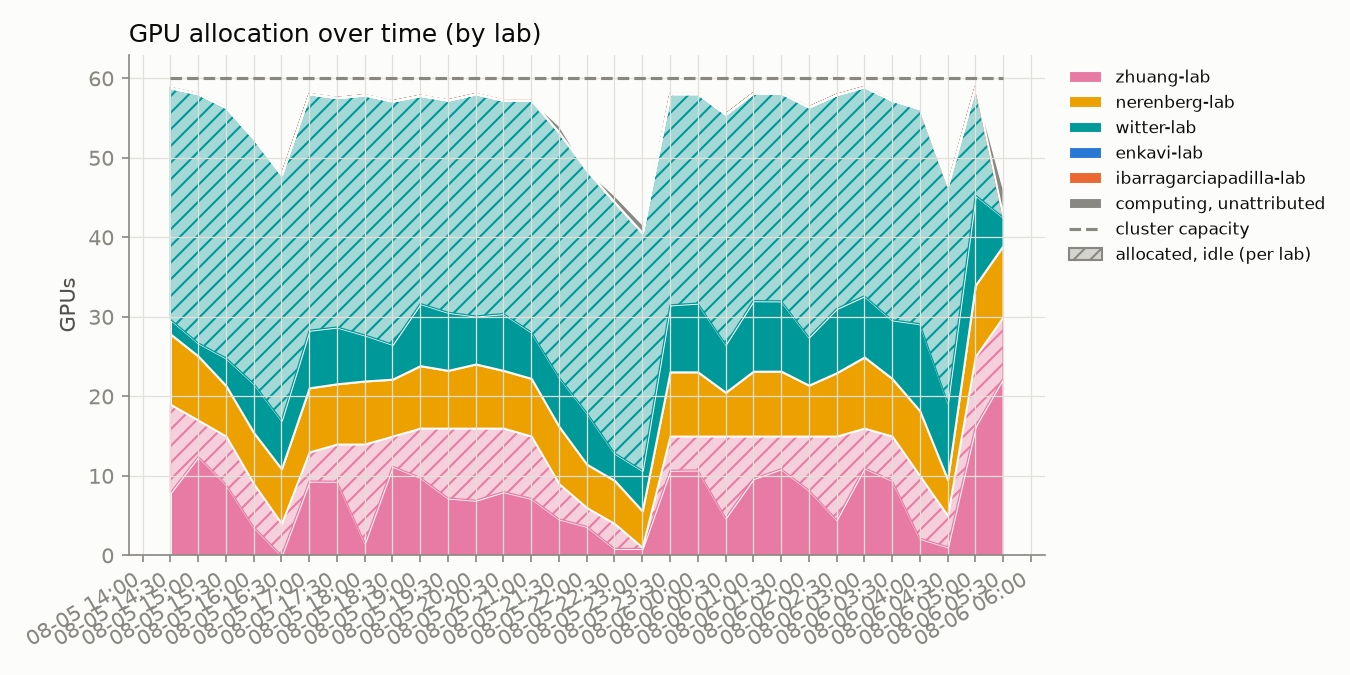
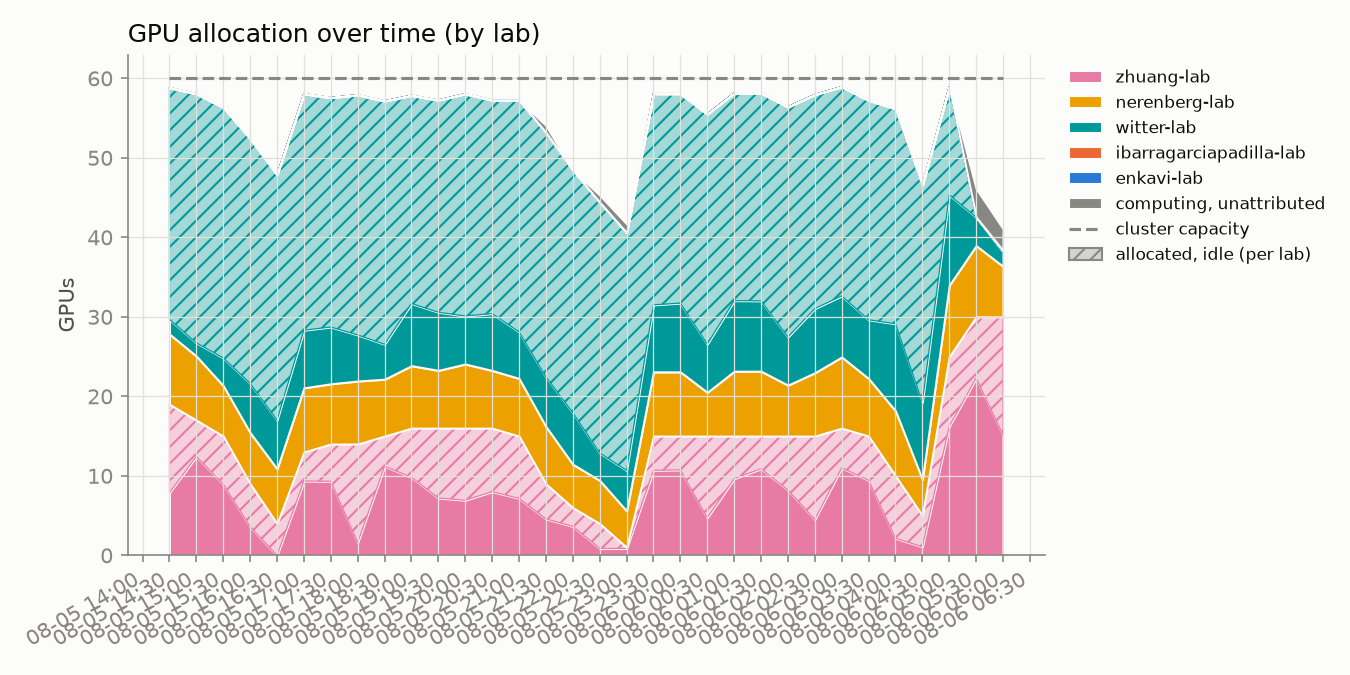
update 2026-08-06T06:00:01-07:00

diff --git a/README.md b/README.md
@@ -2,8 +2,8 @@
 
 Automated GPU/CPU/queue utilization tracker for `hopper.cluster`, updated every 30 minutes by cron. Usernames are anonymized to a stable per-account pseudonym; lab names are real.
 
-Last updated: 2026-08-06T05:30:26-07:00
-Samples: 31 queue snapshots, 31 GPU snapshots
+Last updated: 2026-08-06T06:00:25-07:00
+Samples: 32 queue snapshots, 32 GPU snapshots
 
 ## Resources
 
@@ -16,22 +16,22 @@ Samples: 31 queue snapshots, 31 GPU snapshots
 
 ## Headline
 
-- **82.6%** of the cluster's 60 GPUs allocated, averaged across all samples
-- **37.1%** average `nvidia-smi` utilization *when* a GPU is allocated to a job
-- **80.8%** average cgroup CPU utilization *when* a CPU is allocated to a job
+- **81.8%** of the cluster's 60 GPUs allocated, averaged across all samples
+- **37.5%** average `nvidia-smi` utilization *when* a GPU is allocated to a job
+- **81.0%** average cgroup CPU utilization *when* a CPU is allocated to a job
 
 ## Per lab / per user
 
 <table>
 <tr><th>Lab</th><th>User</th><th align='right'>GPU-hours allocated</th><th align='right'>CPU-hours allocated</th><th align='right'>GPU utilization</th></tr>
 <tr style='background-color:#d8efef'><td>witter-lab</td><td>user-d58f5a15</td><td align='right'>467.5</td><td align='right'>3740.0</td><td align='right'>9%</td></tr>
-<tr style='background-color:#fbebf1'><td>zhuang-lab</td><td>user-0db9ced0</td><td align='right'>212.5</td><td align='right'>212.5</td><td align='right'>48%</td></tr>
-<tr style='background-color:#d8efef'><td>witter-lab</td><td>user-554c620c</td><td align='right'>57.0</td><td align='right'>154.0</td><td align='right'>73%</td></tr>
-<tr style='background-color:#fcf0d8'><td>nerenberg-lab</td><td>user-6bb5f332</td><td align='right'>31.0</td><td align='right'>155.0</td><td align='right'>72%</td></tr>
-<tr style='background-color:#fcf0d8'><td>nerenberg-lab</td><td>user-b12dc074</td><td align='right'>0.0</td><td align='right'>16.0</td><td align='right'>—</td></tr>
-<tr style='background-color:#fce8e0'><td>ibarragarciapadilla-lab</td><td>user-3cfc41a3</td><td align='right'>0.0</td><td align='right'>1860.0</td><td align='right'>—</td></tr>
-<tr style='background-color:#fce8e0'><td>ibarragarciapadilla-lab</td><td>user-eec7ffae</td><td align='right'>0.0</td><td align='right'>208.0</td><td align='right'>—</td></tr>
+<tr style='background-color:#fbebf1'><td>zhuang-lab</td><td>user-0db9ced0</td><td align='right'>227.5</td><td align='right'>227.5</td><td align='right'>48%</td></tr>
+<tr style='background-color:#d8efef'><td>witter-lab</td><td>user-554c620c</td><td align='right'>58.0</td><td align='right'>158.5</td><td align='right'>73%</td></tr>
+<tr style='background-color:#fcf0d8'><td>nerenberg-lab</td><td>user-6bb5f332</td><td align='right'>32.0</td><td align='right'>160.0</td><td align='right'>71%</td></tr>
 <tr style='background-color:#dfeaf8'><td>enkavi-lab</td><td>user-c21bdaa4</td><td align='right'>0.0</td><td align='right'>14.0</td><td align='right'>—</td></tr>
+<tr style='background-color:#fce8e0'><td>ibarragarciapadilla-lab</td><td>user-3cfc41a3</td><td align='right'>0.0</td><td align='right'>1920.0</td><td align='right'>—</td></tr>
+<tr style='background-color:#fce8e0'><td>ibarragarciapadilla-lab</td><td>user-eec7ffae</td><td align='right'>0.0</td><td align='right'>209.5</td><td align='right'>—</td></tr>
+<tr style='background-color:#fcf0d8'><td>nerenberg-lab</td><td>user-b12dc074</td><td align='right'>0.0</td><td align='right'>16.0</td><td align='right'>—</td></tr>
 </table>
 
 (Row background is each lab's chart color, lightened, matching the charts above - GitHub strips the inline CSS that carries it (confirmed against the live rendered page), so on github.com this table renders plain; the tint shows in renderers that keep inline styles, e.g. an editor's local Markdown preview.)
@@ -44,7 +44,7 @@ Samples: 31 queue snapshots, 31 GPU snapshots
 
 Both charts now share the same structure: solid color is *utilized* by lab, translucent + hatched (same color) on top of it is that lab's *allocated but idle*, solid gray above that is real usage that couldn't be traced to a job or lab, and the dashed line is total cluster capacity - any gap above it is unallocated headroom. CPU utilization comes from cgroup v2 accounting (`cpu.stat`'s `usage_usec`, cumulative CPU time per job) read directly off each node, the delta between consecutive samples divided by wall-clock time - `sstat` returns nothing usable for this on this cluster, so this reads the kernel's own accounting file instead of going through Slurm's job-accounting plugin.
 
-Attribution is cross-referenced two ways: `nvidia-smi`'s own process listing (misses containerized/namespaced processes - it just can't see those PIDs), backfilled from Slurm's own GPU-to-job binding record (`scontrol show job -dd`, which doesn't depend on process visibility at all - it's the scheduler's own allocation, not an inference from what a node will show over ssh). The scontrol fallback attributed **1182** GPU readings this run that the process-listing path missed.
+Attribution is cross-referenced two ways: `nvidia-smi`'s own process listing (misses containerized/namespaced processes - it just can't see those PIDs), backfilled from Slurm's own GPU-to-job binding record (`scontrol show job -dd`, which doesn't depend on process visibility at all - it's the scheduler's own allocation, not an inference from what a node will show over ssh). The scontrol fallback attributed **1212** GPU readings this run that the process-listing path missed.
 
 ## Queue
 
@@ -56,7 +56,7 @@ Only jobs Slurm is actively scoring for scheduling (has a `sprio` priority) coun
 
 ![CPU usage vs GPU usage, decayed](assets/cpu_gpu_usage.png)
 
-Each point is one user at one snapshot (n=195), not averaged over time - the point is to see how a user's position moves, not collapse it to a single number. Both axes are usage decayed with Slurm's own ~7-day fairshare half-life (`PriorityDecayHalfLife` on this cluster), not a lifetime total or a per-day average, so this is close to what Slurm itself is actually tracking at each moment.
+Each point is one user at one snapshot (n=200), not averaged over time - the point is to see how a user's position moves, not collapse it to a single number. Both axes are usage decayed with Slurm's own ~7-day fairshare half-life (`PriorityDecayHalfLife` on this cluster), not a lifetime total or a per-day average, so this is close to what Slurm itself is actually tracking at each moment.
 
 **CPU usage (x-axis) is essentially what earns priority here; GPU usage (y-axis) is what Slurm could weight the same way but doesn't**, confirmed directly from the Slurm config: `PriorityWeightTRES` is unset, and partition `main` has no `TRESBillingWeights` configured, so fairshare usage accounting bills by CPU count alone - a job holding 4 GPUs and 8 CPUs accrues the same usage debt as an 8-CPU, no-GPU job. The users worth a second look are in the **upper-left**: low decayed CPU usage (so a high, unpenalized fairshare priority) paired with high decayed GPU usage.
 
